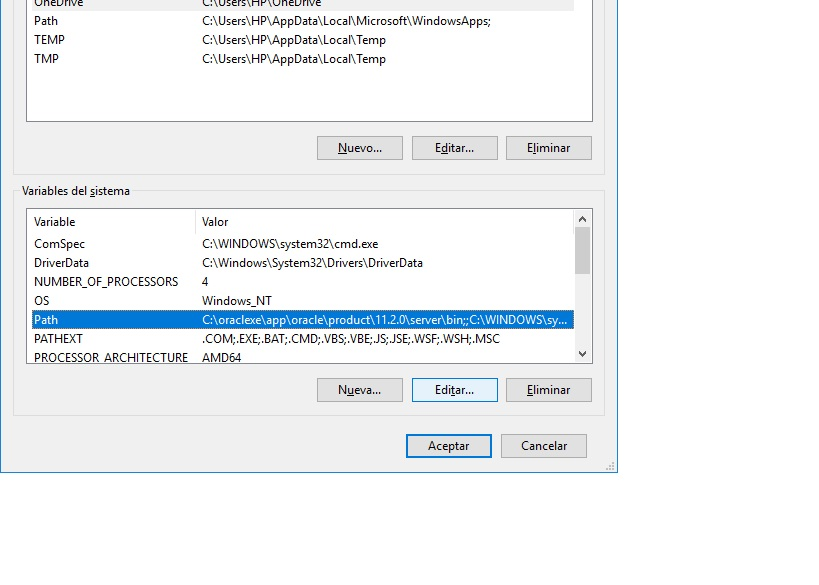
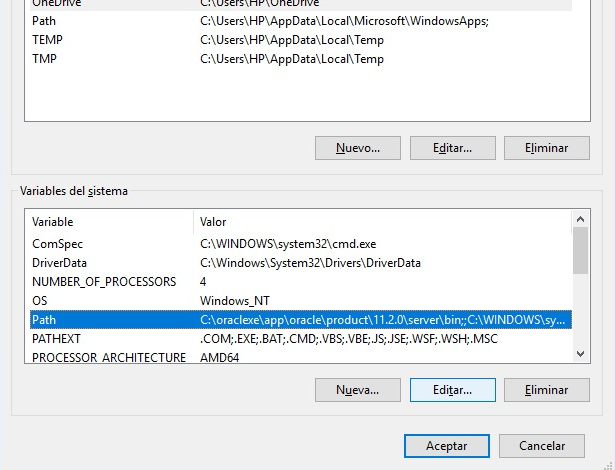
Correcion de imagenes

Changed region(s): [[0.0, 0.0, 1.0, 1.0], [0.6488, 0.9234, 0.9577, 0.983], [0.0309, 0.0, 0.1236, 0.2085]]

diff --git a/scss/normalizecss.css b/scss/normalizecss.css
@@ -1,0 +1,304 @@
+/*! normalize.css v8.0.1 | MIT License | github.com/necolas/normalize.css */
+/* Document
+   ========================================================================== */
+/**
+ * 1. Correct the line height in all browsers.
+ * 2. Prevent adjustments of font size after orientation changes in iOS.
+ */
+html {
+  line-height: 1.15;
+  /* 1 */
+  -webkit-text-size-adjust: 100%;
+  /* 2 */ }
+
+/* Sections
+     ========================================================================== */
+/**
+   * Remove the margin in all browsers.
+   */
+body {
+  margin: 0; }
+
+/**
+   * Render the `main` element consistently in IE.
+   */
+main {
+  display: block; }
+
+/**
+   * Correct the font size and margin on `h1` elements within `section` and
+   * `article` contexts in Chrome, Firefox, and Safari.
+   */
+h1 {
+  font-size: 2em;
+  margin: 0.67em 0; }
+
+/* Grouping content
+     ========================================================================== */
+/**
+   * 1. Add the correct box sizing in Firefox.
+   * 2. Show the overflow in Edge and IE.
+   */
+hr {
+  box-sizing: content-box;
+  /* 1 */
+  height: 0;
+  /* 1 */
+  overflow: visible;
+  /* 2 */ }
+
+/**
+   * 1. Correct the inheritance and scaling of font size in all browsers.
+   * 2. Correct the odd `em` font sizing in all browsers.
+   */
+pre {
+  font-family: monospace, monospace;
+  /* 1 */
+  font-size: 1em;
+  /* 2 */ }
+
+/* Text-level semantics
+     ========================================================================== */
+/**
+   * Remove the gray background on active links in IE 10.
+   */
+a {
+  background-color: transparent; }
+
+/**
+   * 1. Remove the bottom border in Chrome 57-
+   * 2. Add the correct text decoration in Chrome, Edge, IE, Opera, and Safari.
+   */
+abbr[title] {
+  border-bottom: none;
+  /* 1 */
+  text-decoration: underline;
+  /* 2 */
+  text-decoration: underline dotted;
+  /* 2 */ }
+
+/**
+   * Add the correct font weight in Chrome, Edge, and Safari.
+   */
+b,
+strong {
+  font-weight: bolder; }
+
+/**
+   * 1. Correct the inheritance and scaling of font size in all browsers.
+   * 2. Correct the odd `em` font sizing in all browsers.
+   */
+code,
+kbd,
+samp {
+  font-family: monospace, monospace;
+  /* 1 */
+  font-size: 1em;
+  /* 2 */ }
+
+/**
+   * Add the correct font size in all browsers.
+   */
+small {
+  font-size: 80%; }
+
+/**
+   * Prevent `sub` and `sup` elements from affecting the line height in
+   * all browsers.
+   */
+sub,
+sup {
+  font-size: 75%;
+  line-height: 0;
+  position: relative;
+  vertical-align: baseline; }
+
+sub {
+  bottom: -0.25em; }
+
+sup {
+  top: -0.5em; }
+
+/* Embedded content
+     ========================================================================== */
+/**
+   * Remove the border on images inside links in IE 10.
+   */
+img {
+  border-style: none; }
+
+/* Forms
+     ========================================================================== */
+/**
+   * 1. Change the font styles in all browsers.
+   * 2. Remove the margin in Firefox and Safari.
+   */
+button,
+input,
+optgroup,
+select,
+textarea {
+  font-family: inherit;
+  /* 1 */
+  font-size: 100%;
+  /* 1 */
+  line-height: 1.15;
+  /* 1 */
+  margin: 0;
+  /* 2 */ }
+
+/**
+   * Show the overflow in IE.
+   * 1. Show the overflow in Edge.
+   */
+button,
+input {
+  /* 1 */
+  overflow: visible; }
+
+/**
+   * Remove the inheritance of text transform in Edge, Firefox, and IE.
+   * 1. Remove the inheritance of text transform in Firefox.
+   */
+button,
+select {
+  /* 1 */
+  text-transform: none; }
+
+/**
+   * Correct the inability to style clickable types in iOS and Safari.
+   */
+button,
+[type="button"],
+[type="reset"],
+[type="submit"] {
+  -webkit-appearance: button; }
+
+/**
+   * Remove the inner border and padding in Firefox.
+   */
+button::-moz-focus-inner,
+[type="button"]::-moz-focus-inner,
+[type="reset"]::-moz-focus-inner,
+[type="submit"]::-moz-focus-inner {
+  border-style: none;
+  padding: 0; }
+
+/**
+   * Restore the focus styles unset by the previous rule.
+   */
+button:-moz-focusring,
+[type="button"]:-moz-focusring,
+[type="reset"]:-moz-focusring,
+[type="submit"]:-moz-focusring {
+  outline: 1px dotted ButtonText; }
+
+/**
+   * Correct the padding in Firefox.
+   */
+fieldset {
+  padding: 0.35em 0.75em 0.625em; }
+
+/**
+   * 1. Correct the text wrapping in Edge and IE.
+   * 2. Correct the color inheritance from `fieldset` elements in IE.
+   * 3. Remove the padding so developers are not caught out when they zero out
+   *    `fieldset` elements in all browsers.
+   */
+legend {
+  box-sizing: border-box;
+  /* 1 */
+  color: inherit;
+  /* 2 */
+  display: table;
+  /* 1 */
+  max-width: 100%;
+  /* 1 */
+  padding: 0;
+  /* 3 */
+  white-space: normal;
+  /* 1 */ }
+
+/**
+   * Add the correct vertical alignment in Chrome, Firefox, and Opera.
+   */
+progress {
+  vertical-align: baseline; }
+
+/**
+   * Remove the default vertical scrollbar in IE 10+.
+   */
+textarea {
+  overflow: auto; }
+
+/**
+   * 1. Add the correct box sizing in IE 10.
+   * 2. Remove the padding in IE 10.
+   */
+[type="checkbox"],
+[type="radio"] {
+  box-sizing: border-box;
+  /* 1 */
+  padding: 0;
+  /* 2 */ }
+
+/**
+   * Correct the cursor style of increment and decrement buttons in Chrome.
+   */
+[type="number"]::-webkit-inner-spin-button,
+[type="number"]::-webkit-outer-spin-button {
+  height: auto; }
+
+/**
+   * 1. Correct the odd appearance in Chrome and Safari.
+   * 2. Correct the outline style in Safari.
+   */
+[type="search"] {
+  -webkit-appearance: textfield;
+  /* 1 */
+  outline-offset: -2px;
+  /* 2 */ }
+
+/**
+   * Remove the inner padding in Chrome and Safari on macOS.
+   */
+[type="search"]::-webkit-search-decoration {
+  -webkit-appearance: none; }
+
+/**
+   * 1. Correct the inability to style clickable types in iOS and Safari.
+   * 2. Change font properties to `inherit` in Safari.
+   */
+::-webkit-file-upload-button {
+  -webkit-appearance: button;
+  /* 1 */
+  font: inherit;
+  /* 2 */ }
+
+/* Interactive
+     ========================================================================== */
+/*
+   * Add the correct display in Edge, IE 10+, and Firefox.
+   */
+details {
+  display: block; }
+
+/*
+   * Add the correct display in all browsers.
+   */
+summary {
+  display: list-item; }
+
+/* Misc
+     ========================================================================== */
+/**
+   * Add the correct display in IE 10+.
+   */
+template {
+  display: none; }
+
+/**
+   * Add the correct display in IE 10.
+   */
+[hidden] {
+  display: none; }

diff --git a/varios/act-oci8-xampp.html b/varios/act-oci8-xampp.html
@@ -41,13 +41,13 @@
                 3. Asignar a la variable de entorno path el directorio donde se descomprimio el instanclient, para hacerlo copiar la ruta donde se instalo el instantclient
                 <img src="../img/ruta-instant.jpg" alt="ruta-instant" class="img">
                 Despues dar click derecho en equipo->propiedades->Configuracion avanzada del sistema, en la ventana que se abre dar click en el boton variables de entorno.
-                <img src="../img/config-avanzada.jpg" alt="config-avanzada" class="img centerElement">                
+                <img src="../img/config-avanzada.jpg" alt="config-avanzada" class="img centerElement img-auto">                
                 En la siguiente ventana, en el recuadro variables del sistema seleccionar Path y dar click en el boton editar.
-                <img src="../img/var-entorno.jpg" alt="var-entorno" class="img ">
+                <img src="../img/var-entorno.jpg" alt="var-entorno" class="img img-auto centerElement">
                 En el siguiente cuadro de dialogo dar click en nuevo y pegar la ruta donde esta instalado el instantclient y dar enter.
-                <img src="../img/save-ruta-instant.jpg" alt="save-ruta-instant" class="img">
+                <img src="../img/save-ruta-instant.jpg" alt="save-ruta-instant" class="img img-auto centerElement" centerElement>
                 Despues mover la linea que acabamos de crear de modo que esta quede por encima de cualquier variable de entorno de oracle.
-                <img src="../img/up-ruta-instant.jpg" alt="up-ruta-instant" class="img">
+                <img src="../img/up-ruta-instant.jpg" alt="up-ruta-instant" class="img img-auto centerElement">
                 Por ultimo dar click en aceptar en todas las ventanas que se abrieron.
                 <br>
                 4. Reiniciar la pc.

diff --git a/scss/index.css b/scss/index.css
@@ -1,0 +1,27 @@
+@import url(./general-styles.css);
+.header {
+  width: 100vw;
+  margin-bottom: 5px; }
+
+.title {
+  font-size: 1.2em;
+  text-align: center; }
+
+.card {
+  width: 90%;
+  margin-left: auto;
+  margin-right: auto;
+  border-top-style: solid;
+  border-right-style: solid;
+  border-bottom: solid;
+  border-left-style: solid;
+  border-color: #d0d3d4;
+  /*#ecf0f1*/
+  text-align: center;
+  padding-bottom: 5px; }
+
+/* .css3Logo {
+    display: block;
+    margin-left: auto;
+    margin-right: auto
+} */

diff --git a/css/general-styles.css b/css/general-styles.css
@@ -129,7 +129,6 @@ a {
     margin-left: auto;
     margin-right: auto; }
   .img {
-    display: block;
-    width: auto; } }
+    display: block; } }
 
 /*# sourceMappingURL=general-styles.css.map */

diff --git a/varios/css/act-oci8-xampp.css b/varios/css/act-oci8-xampp.css
@@ -1,4 +1,8 @@
 .parrafo {
   /*white-space: pre-line;*/ }
 
+@media (min-width: 768px) {
+  .img-auto {
+    width: auto; } }
+
 /*# sourceMappingURL=act-oci8-xampp.css.map */

diff --git a/varios/scss/act-oci8-xampp.scss b/varios/scss/act-oci8-xampp.scss
@@ -1,3 +1,11 @@
 .parrafo {
     /*white-space: pre-line;*/
 }
+
+@media(min-width: 768px) {
+
+    .img-auto {
+        width: auto;
+    }
+
+}

diff --git a/scss/general-styles.scss b/scss/general-styles.scss
@@ -153,8 +153,7 @@ a {
     }
 
     .img {
-        display: block;
-        width: auto;
+        display: block;        
     }
 
 }
